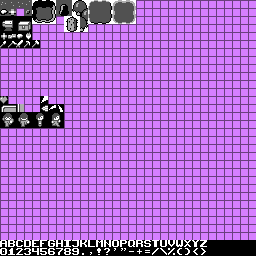
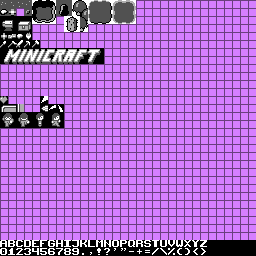
06 TitleMenu 12:28:59

Changed region(s): [[0.0, 0.1875, 0.4062, 0.25]]

diff --git a/src/com/w1ll1x/ld22/InputHandler.java b/src/com/w1ll1x/ld22/InputHandler.java
@@ -76,6 +76,14 @@ public class InputHandler implements KeyListener {
 			left.toggle(pressed);
 		if (ke.getKeyCode() == KeyEvent.VK_NUMPAD6)
 			right.toggle(pressed);
+		if (ke.getKeyCode() == KeyEvent.VK_W)
+			up.toggle(pressed);
+		if (ke.getKeyCode() == KeyEvent.VK_S)
+			down.toggle(pressed);
+		if (ke.getKeyCode() == KeyEvent.VK_A)
+			left.toggle(pressed);
+		if (ke.getKeyCode() == KeyEvent.VK_D)
+			right.toggle(pressed);
 		if (ke.getKeyCode() == KeyEvent.VK_UP)
 			up.toggle(pressed);
 		if (ke.getKeyCode() == KeyEvent.VK_DOWN)
@@ -88,14 +96,24 @@ public class InputHandler implements KeyListener {
 		if (ke.getKeyCode() == KeyEvent.VK_TAB)
 			menu.toggle(pressed);
 		if (ke.getKeyCode() == KeyEvent.VK_ALT)
-			attack.toggle(pressed);
+			menu.toggle(pressed);
 		if (ke.getKeyCode() == KeyEvent.VK_ALT_GRAPH)
-			attack.toggle(pressed);
+			menu.toggle(pressed);
 		if (ke.getKeyCode() == KeyEvent.VK_SPACE)
 			attack.toggle(pressed);
 		if (ke.getKeyCode() == KeyEvent.VK_CONTROL)
 			attack.toggle(pressed);
+		if (ke.getKeyCode() == KeyEvent.VK_NUMPAD0)
+			attack.toggle(pressed);
+		if (ke.getKeyCode() == KeyEvent.VK_INSERT)
+			attack.toggle(pressed);
+		if (ke.getKeyCode() == KeyEvent.VK_ENTER)
+			menu.toggle(pressed);
 		
+		if (ke.getKeyCode() == KeyEvent.VK_X)
+			menu.toggle(pressed);
+		if (ke.getKeyCode() == KeyEvent.VK_C)
+			attack.toggle(pressed);
 		if (ke.getKeyCode() == KeyEvent.VK_X)
 			menu.toggle(pressed);
 		if (ke.getKeyCode() == KeyEvent.VK_C)

diff --git a/src/com/w1ll1x/ld22/screen/TitleMenu.java b/src/com/w1ll1x/ld22/screen/TitleMenu.java
@@ -1,0 +1,60 @@
+package com.w1ll1x.ld22.screen;
+
+import com.w1ll1x.ld22.gfx.Color;
+import com.w1ll1x.ld22.gfx.Font;
+import com.w1ll1x.ld22.gfx.Screen;
+
+public class TitleMenu extends Menu {
+	private int selected = 0;
+
+	private static final String[] options = { "Start game", "How to play", "About", };
+
+	public TitleMenu() {
+	}
+
+	@Override
+	public void tick() {
+
+		if (input.up.clicked)
+			selected--;
+		if (input.down.clicked)
+			selected++;
+
+		int len = options.length;
+		if (selected < 0)
+			selected += len;
+		if (selected >= len)
+			selected -= len;
+
+		if (input.attack.clicked) {
+			if (selected == 0)
+				game.setMenu(null);
+		}
+	}
+
+	public void render(Screen screen) {
+		screen.clear();
+
+		int h = 2;
+		int w = 13;
+		int xo = (screen.w - w * 8) / 2;
+		int yo = 24;
+		int titleColor = Color.get(0, 010, 020, 551);
+		for (int y = 0; y < h; y++) {
+			for (int x = 0; x < w; x++) {
+				screen.render(xo + x * 8, yo + y * 8, x + (y + 6) * 32, titleColor, 0);
+			}
+		}
+
+		for (int i = 0; i < 3; i++) {
+			String msg = options[i];
+			int col = Color.get(0, 222, 222, 222);
+			if (i == selected) {
+				msg = "> " + msg + " <";
+				col = Color.get(0, 555, 555, 555);
+			}
+			Font.draw(msg, screen, (screen.w - msg.length() * 8) / 2, (8 + i) * 8, col);
+		}
+		Font.draw("(Arrow keys, X and C)", screen, 0, screen.h - 8, Color.get(0, 111, 111, 111));
+	}
+}

diff --git a/src/com/w1ll1x/ld22/screen/Menu.java b/src/com/w1ll1x/ld22/screen/Menu.java
@@ -11,7 +11,7 @@ import com.w1ll1x.ld22.gfx.Screen;
 public class Menu {
 	protected Game game;
 	protected InputHandler input;
-	
+
 	public void init(Game game, InputHandler input) {
 		this.input = input;
 		this.game = game;
@@ -19,17 +19,21 @@ public class Menu {
 
 	public void tick() {
 	}
-	
+
 	public void render(Screen screen) {
 	}
-	
 
 	public void renderItemList(Screen screen, int xo, int yo, int x1, int y1, List<? extends ListItem> listItems, int selected) {
+		boolean renderCursor = true;
+		if (selected < 0) {
+			selected = -selected - 1;
+			renderCursor = false;
+		}
 		int w = x1 - xo;
 		int h = y1 - yo - 1;
 		int i0 = 0;
 		int i1 = listItems.size();
-		if (i1 > 11) 
+		if (i1 > h)
 			i1 = h;
 		int io = selected - h / 2;
 		if (io > listItems.size() - h)
@@ -39,8 +43,8 @@ public class Menu {
 		for (int i = i0; i < i1; i++) {
 			listItems.get(i + io).renderInventory(screen, (1 + xo) * 8, (i + 1 + yo) * 8);
 		}
-		
-		if (selected >= 0) {
+
+		if (renderCursor) {
 			int yy = selected + 1 - io + yo;
 			Font.draw(">", screen, (xo + 0) * 8, yy * 8, Color.get(5, 555, 555, 555));
 			Font.draw("<", screen, (xo + w) * 8, yy * 8, Color.get(5, 555, 555, 555));

diff --git a/src/com/w1ll1x/ld22/screen/ContainerMenu.java b/src/com/w1ll1x/ld22/screen/ContainerMenu.java
@@ -70,10 +70,10 @@ public class ContainerMenu extends Menu {
 		if (window == 1)
 			screen.setOffset(6 * 8, 0);
 		Font.renderFrame(screen, title, 1, 1, 12, 11);
-		renderItemList(screen, 1, 1, 12, 11, container.items, window == 0 ? selected : -1);
+		renderItemList(screen, 1, 1, 12, 11, container.items, window == 0 ? selected : -oSelected - 1);
 
 		Font.renderFrame(screen, "inventory", 13, 1, 13 + 11, 11);
-		renderItemList(screen, 13, 1, 13 + 11, 11, player.inventory.items, window == 1 ? selected : -1);
+		renderItemList(screen, 13, 1, 13 + 11, 11, player.inventory.items, window == 1 ? selected : -oSelected - 1);
 		screen.setOffset(0, 0);
 	}
 }

diff --git a/src/com/w1ll1x/ld22/Game.java b/src/com/w1ll1x/ld22/Game.java
@@ -21,6 +21,7 @@ import com.w1ll1x.ld22.gfx.Screen;
 import com.w1ll1x.ld22.gfx.SpriteSheet;
 import com.w1ll1x.ld22.level.Level;
 import com.w1ll1x.ld22.screen.Menu;
+import com.w1ll1x.ld22.screen.TitleMenu;
 
 public class Game extends Canvas implements Runnable {
 	private static final long serialVersionUID = 1L;
@@ -96,6 +97,7 @@ public class Game extends Canvas implements Runnable {
 		} catch (IOException e) {
 			e.printStackTrace();
 		}
+		setMenu(new TitleMenu());
 	}
 
 	public void run() {

diff --git a/src/com/w1ll1x/ld22/item/ToolItem.java b/src/com/w1ll1x/ld22/item/ToolItem.java
@@ -9,8 +9,8 @@ public class ToolItem extends Item {
 	public static final int MAX_LEVEL = 5;
 	public static final String[] LEVEL_NAMES = { "Wood", "Rock", "Iron", "Gold", "Gem" };
 	public static final int[] LEVEL_COLORS = { //
-			Color.get(-1, 100, 321, 321), //
-			Color.get(-1, 100, 321, 333), //
+			Color.get(-1, 100, 321, 431), //
+			Color.get(-1, 100, 321, 111), //
 			Color.get(-1, 100, 321, 555), //
 			Color.get(-1, 100, 321, 550), //
 			Color.get(-1, 100, 321, 55), };

diff --git a/src/com/w1ll1x/ld22/screen/CraftingMenu.java b/src/com/w1ll1x/ld22/screen/CraftingMenu.java
@@ -5,12 +5,9 @@ import java.util.List;
 
 import com.w1ll1x.ld22.entity.Anvil;
 import com.w1ll1x.ld22.entity.Player;
-import com.w1ll1x.ld22.gfx.Color;
 import com.w1ll1x.ld22.gfx.Font;
 import com.w1ll1x.ld22.gfx.Screen;
-import com.w1ll1x.ld22.item.Item;
 import com.w1ll1x.ld22.item.Resource;
-import com.w1ll1x.ld22.item.ResourceItem;
 
 public class CraftingMenu extends Menu {
 	private Anvil anvil;

diff --git a/src/com/w1ll1x/ld22/screen/InventoryMenu.java b/src/com/w1ll1x/ld22/screen/InventoryMenu.java
@@ -1,7 +1,6 @@
 package com.w1ll1x.ld22.screen;
 
 import com.w1ll1x.ld22.entity.Player;
-import com.w1ll1x.ld22.gfx.Color;
 import com.w1ll1x.ld22.gfx.Font;
 import com.w1ll1x.ld22.gfx.Screen;
 

diff --git a/src/com/w1ll1x/ld22/gfx/Screen.java b/src/com/w1ll1x/ld22/gfx/Screen.java
@@ -49,7 +49,7 @@ public class Screen {
 
 	public void clear() {
 		for (int i = 0; i < pixels.length; i++) {
-			pixels[i] = 255;
+			pixels[i] = 0;
 		}
 	}
 
